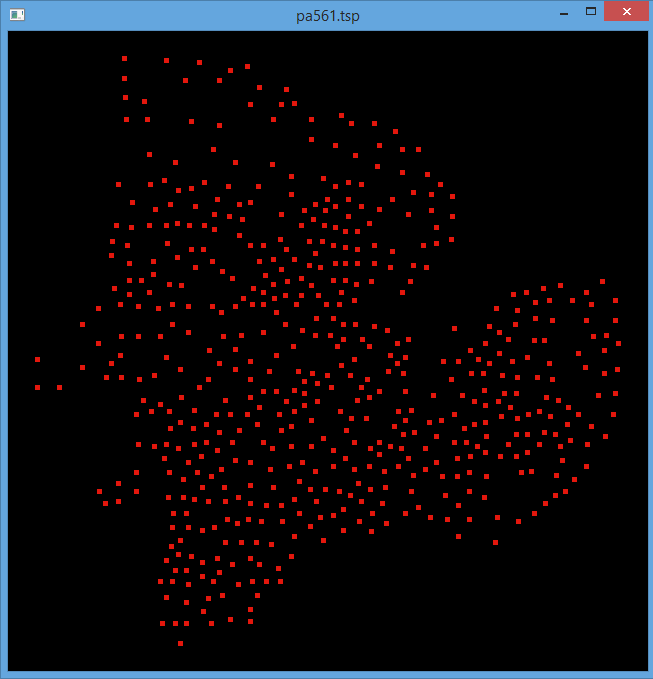
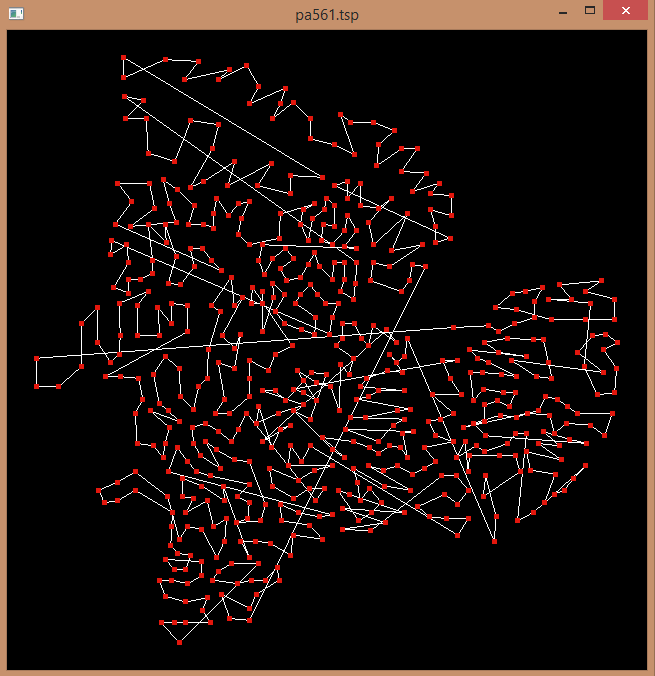
tsp2dvis images and documentation edit

diff --git a/mlp/vis/tsp2d/main.cpp b/mlp/vis/tsp2d/main.cpp
@@ -55,7 +55,6 @@ public:
 	std::string sfile;
 	Solution solution;
 	SharedInstance instance_ptr;
-	bool plot_solution = false;
 	float dotsize = 0;
 	float dot_r = 0, dot_g = 0, dot_b = 0;
 	float line_r = 0, line_g = 0, line_b = 0;
@@ -91,13 +90,11 @@ public:
 	void plot() {
 		auto matrix = instance_ptr->GetPositionMatrix();
 		auto n = matrix->getm();
-		if (plot_solution) {
-			glColor3f(line_r, line_g, line_b);
-			glBegin(GL_LINE_LOOP);
-			for (auto node_i : solution)
-				NODE_VERTEX2F(matrix, node_i);
-			glEnd();
-		}
+		glColor3f(line_r, line_g, line_b);
+		glBegin(GL_LINE_LOOP);
+		for (auto node_i : solution)
+			NODE_VERTEX2F(matrix, node_i);
+		glEnd();
 		glColor3f(dot_r, dot_g, dot_b);
 		glBegin(GL_POINTS);
 		for (std::size_t i = 0; i < n; ++i)
@@ -133,9 +130,7 @@ int main(int argc, char** argv)
 		.bind("line-b", &options_t::line_b, arg::def(1.f))
 		.bind("frame", &options_t::frame, arg::def(0.1));
 
-	options.plot_solution = !options.sfile.empty();
-
-	if (!options.plot_solution) {
+	if (options.sfile.empty()) {
 		std::string ifilepath = std::string(DATAPATH) + "/" + options.ifile;
 		auto iparser = InstanceParser::Open(ifilepath);
 
@@ -147,6 +142,7 @@ int main(int argc, char** argv)
 
 		std::cout << "OK\n";
 		options.instance_ptr = *instance_opt;
+		options.solution = Solution(options.instance_ptr);
 	} else {
 		std::cout << "Parsing solution " << options.sfile << "... ";
 
